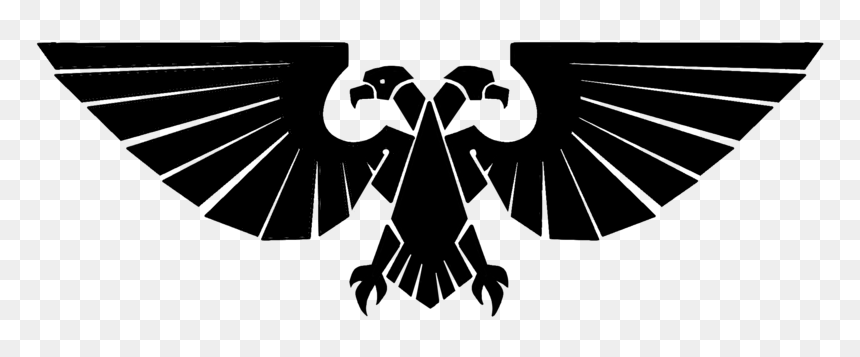
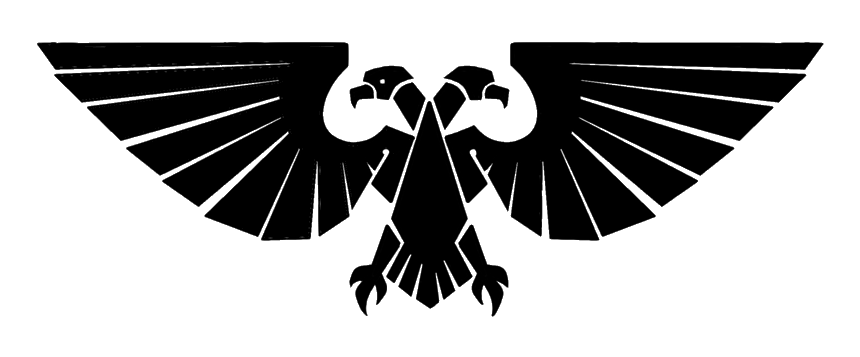
Aquila PNG: bake real alpha + force mask-mode alpha
The PNG sourced from archive/prototype-v1/uploads/ stored the eagle as
RGBA but with alpha=255 across every pixel — the white-looking
background was opaque white, not transparent. Used as a mask-image,
that resolves to "everything is opaque" and the rect renders as a
solid coloured fill (no eagle silhouette visible — what Philipp saw
on the deploy).

Re-encoded the PNG so pixels with R/G/B > 200 carry alpha=0 (66% of
the image — the background and inner feather slivers). The eagle
silhouette keeps alpha=255.

Also adds an explicit `mask-mode: alpha` rule (via a new `.aquila`
class in globals.css, since React's CSSProperties type doesn't yet
allow the key inline). Some browsers default to luminance mode for
PNG masks, which would invert the silhouette.

Bonus: /timeline page now logs `loaded N eras, M books, K series` on
every server render (not just dev) so the empty-state Overview can be
diagnosed from Vercel function logs — zero eras = DB returned nothing
for this env's DATABASE_URL; absent log = request didn't hit the
loadTimeline path at all.

diff --git a/src/app/timeline/page.tsx b/src/app/timeline/page.tsx
@@ -123,14 +123,17 @@ async function loadTimeline(): Promise<{
       series: b.seriesId ? { id: b.seriesId, order: b.seriesIndex } : null,
     }));
 
-    if (process.env.NODE_ENV !== "production") {
-      console.log(
-        `[/timeline] loaded ${eras.length} eras, ${books.length} books, ${Object.keys(seriesById).length} series.`,
-      );
-    }
+    // Log on every request — visible in `next dev` terminal locally and in
+    // Vercel function logs on prod. Useful when the empty-state Overview
+    // appears: zero eras here means "DB returned nothing"; an absent log
+    // line means the request didn't reach this code path.
+    console.log(
+      `[/timeline] loaded ${eras.length} eras, ${books.length} books, ${Object.keys(seriesById).length} series.`,
+    );
     return { eras, books, seriesById };
   } catch (err) {
-    console.error("[/timeline] DB fetch failed; rendering empty timeline.", err);
+    const msg = err instanceof Error ? `${err.name}: ${err.message}` : String(err);
+    console.error(`[/timeline] DB fetch failed (${msg}); rendering empty timeline.`);
     return { eras: [], books: [], seriesById: {} };
   }
 }

diff --git a/src/components/Aquila.tsx b/src/components/Aquila.tsx
@@ -37,5 +37,14 @@ export function Aquila({ size = 180, className, style, ...rest }: AquilaProps) {
     maskPosition: "center",
     ...style,
   };
-  return <span aria-hidden="true" className={className} style={maskStyle} {...rest} />;
+  // `mask-mode: alpha` is forced via the `.aquila` CSS class in globals.css —
+  // React's CSSProperties type doesn't yet ship that key in its allow-list.
+  return (
+    <span
+      aria-hidden="true"
+      className={className ? `aquila ${className}` : "aquila"}
+      style={maskStyle}
+      {...rest}
+    />
+  );
 }

diff --git a/src/app/globals.css b/src/app/globals.css
@@ -376,6 +376,15 @@ main {
   opacity: 0.95;
 }
 
+/* Force alpha-mode for the PNG mask. Some browsers default to luminance for
+   image masks, which would render the eagle's dark pixels as the masked-out
+   region (i.e., a coloured rectangle with an eagle-shaped hole). React's
+   CSSProperties type doesn't yet expose mask-mode, so it lives here. */
+.aquila {
+  -webkit-mask-mode: alpha;
+  mask-mode: alpha;
+}
+
 .hub-title {
   display: inline-flex;
   align-items: center;
